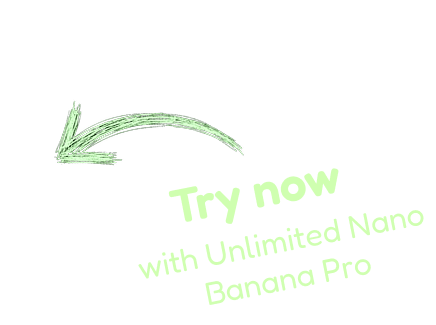
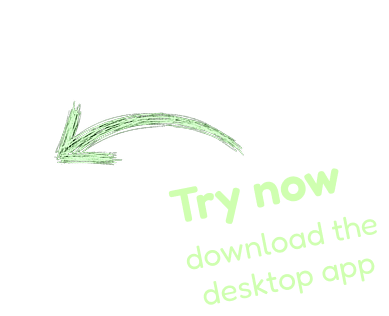
update landing cta texts

Changed region(s): [[0.3085, 0.5127, 0.9871, 0.9684], [0.1234, 0.3133, 0.617, 0.5411]]

diff --git a/frontend/apps/artcraft-website/src/pages/landing2/landing2.tsx b/frontend/apps/artcraft-website/src/pages/landing2/landing2.tsx
@@ -305,7 +305,7 @@ const Landing = () => {
                 src="/images/try-download.png"
                 alt="Try Download"
                 draggable={false}
-                className="absolute right-[9%] -bottom-2 h-40 pointer-events-none select-none hidden md:block"
+                className="absolute right-[9.5%] -bottom-2 h-40 pointer-events-none select-none hidden md:block"
               />
             </div>
 
@@ -862,9 +862,6 @@ const Landing = () => {
               <LandingActionButtons onDownloadClick={onDownloadClick} />
               <div className="mt-4 text-sm text-white/80 font-medium">
                 Free to use.
-              </div>
-              <div className="text-xs text-white/80 mt-1 font-medium">
-                Unlimited Nano Banana Pro for a limited time!
               </div>
             </div>
           </div>
